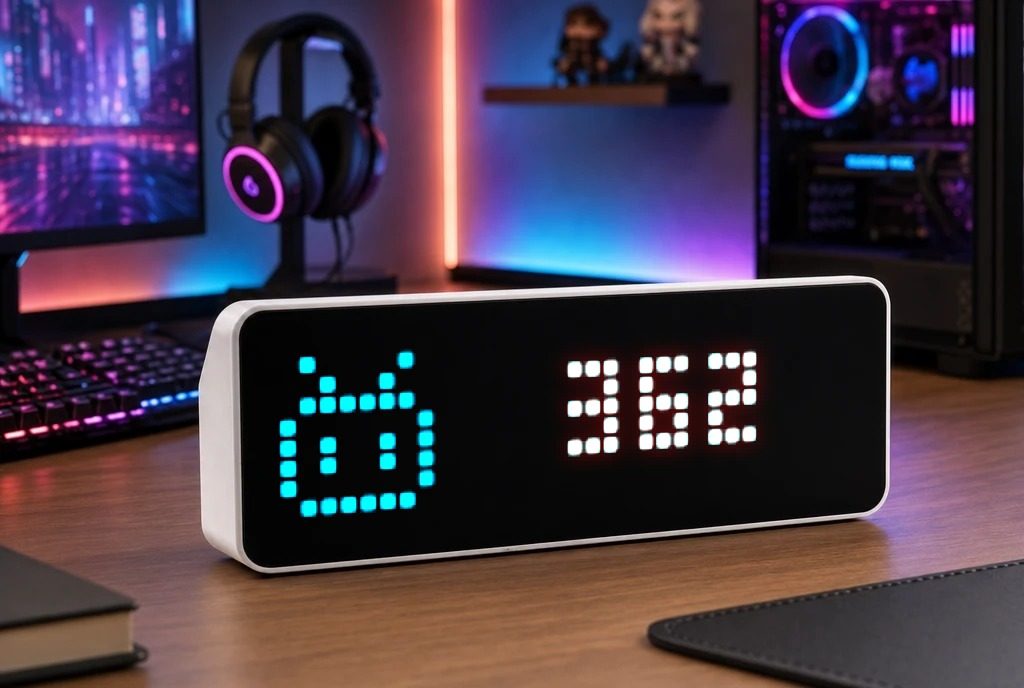
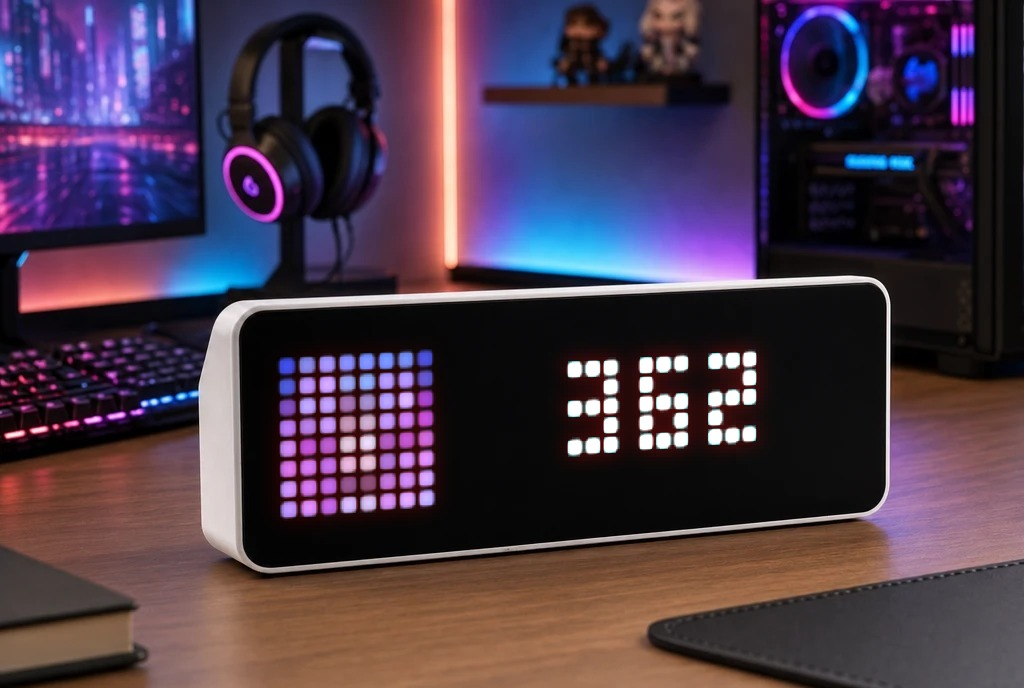
docs: update README and CLAUDE

Changed region(s): [[0.25, 0.4884, 0.4375, 0.7631]]

diff --git a/CLAUDE.md b/CLAUDE.md
@@ -394,38 +394,30 @@ Cost matters on a router, and the shell's own forks dominate it. Prefer builtins
 
 ## Image conversion (`workers/`)
 
-Item 3 above. The device cannot decode an arbitrary image and Berry has no blit, so conversion happens off-device — but **the conversion does not have to produce pixels**, which is the whole reason this is small. The firmware decodes an inline base64 JPEG/GIF in the `icon` key (see the MQTT section), so the Worker's job is "return a tiny *encoded* image", and Cloudflare Images does exactly that in one `fetch`:
+Item 3 above. The device cannot resize an arbitrary image and Berry has no blit, so the resize happens off-device in the one Worker that exists: `workers/awtrixng-image-proxy-worker/`. It is a **decode** worker — it fetches the remote image, decodes it with pure-JS libraries (`jpeg-js` for JPEG, `upng-js` for PNG/WebP), box-averages it down to 8x8 in `downscale()` (`src/index.js:131`), blends transparent pixels onto the panel's **black** background, re-encodes as a small JPEG and returns `{"data":"<base64>","size":8}`.
+
+This is the opposite of an older draft of this file, which described a "no decode" Cloudflare Images plan:
 
 ```js
 fetch(src, { cf: { image: { width: 8, height: 8, fit: "cover",
                             format: "baseline-jpeg", quality: 95 } } })
 ```
 
-The response body *is* the 8x8 JPEG; base64 it and return. No image library, no WASM, no decode. That matters because **Workers has no native image decoding at all** — `OffscreenCanvas`, `createImageBitmap`, `ImageDecoder` and WebCodecs are all absent from workerd and closed `not_planned`, so the alternative is bundling a decoder (`@cf-wasm/photon` ~1.5 MB, `@jsquash/png` ~177 KB) against the Free plan's **10 ms CPU** and **1 s startup CPU** limits. Not decoding sidesteps both: `fetch` wait does not count as CPU, and base64 of ~400 bytes is microseconds. Free plan is sufficient — 5000 unique transformations/month, where "unique" is (source, params) per calendar month, so a repeated album cover is free. Works on a `workers.dev` subdomain.
+That idea failed on a blocking unknown — whether CF Images will actually emit 8x8 — so this worker went the other way: **bundle the decoders, decode, and resize by hand**, which is also the only reason the two earlier paragraphs are now wrong. The trade-off is real and worth stating plainly: **workerd has no native image decoding** (`OffscreenCanvas`, `createImageBitmap`, `ImageDecoder`, WebCodecs all absent, closed `not_planned`), so decoding into a few hundred bytes spends CPU against the Free plan's **10 ms CPU** / **1 s startup CPU** limits. The old "no decode sidesteps both" argument was the whole appeal of the CF Images route; it is simply not what ships.
 
-**Always write `baseline-jpeg`, never `jpeg`.** The firmware bundles TJpgDec, which accepts only `SOF0` and returns `JDR_FMT3` for progressive — verified in `awtrix-ng/lib/TJpg_Decoder/src/tjpgd.c:1103`. Cloudflare's `jpeg` is documented as "interlaced progressive". There is an accidental safety net (CF only uses progressive when the output area is at least 50x50, and both 8x8 and 32x8 fall under it, so it silently emits baseline anyway) but do not rely on an implicit fallback.
+**Output stays `baseline-jpeg`.** The firmware bundles TJpgDec, which accepts only `SOF0` and returns `JDR_FMT3` for progressive — verified in `awtrix-ng/lib/TJpg_Decoder/src/tjpgd.c:1103`. `jpeg-js` encodes baseline by default, so this worker is already safe; the warning that mattered under the CF Images plan (its `format: "jpeg"` emits interlaced progressive) is a non-issue here since we control the encoder.
 
-Format choice, measured on a real cover at 8x8 against the exact resized pixels:
+Format choice never came up on the decode route: the worker always emits one JPEG (quality 90, from `encodeJpegLib(..., 90)`), so there is no `format` knob to bargain over — the GIF-vs-JPEG comparison from the CF Images draft is stale and dropped.
 
-| | RMSE | peak abs err | base64 | code needed |
-|---|---|---|---|---|
-| GIF | **0** | **0** | 380 | yes, and `format:"gif"` support is doubtful |
-| JPEG q95 | 0.0139 | 0.039 | 500 | none |
-| JPEG q75 | 0.0486 | 0.169 | 432 | none |
+**A `.ax` app *can* consume this, but only on firmware that supports `base64:` icons.** Berry's `icon()` takes a name, and `base64`/`bitmap`/blit do not exist in the Berry API — the `icon("base64:<data>", x, y)` form is the whole trick, and it is a **pushed-app-side** feature that stock AWTRIX NG only gained via [PR #52](https://github.com/Blueforcer/awtrix-ng/pull/52). On stock firmware without that PR the on-device apps here cannot show a fetched avatar at all; that is exactly what the README note at the top of this branch warns about. The two consumers in this repo are `github-followers.ax` and `bilibili-followers.ax`, which fetch the worker's base64 over HTTPS and hand it to `icon("base64:" + data, 0, 0)` — no pushed app, no LAN host, and nothing written to flash. The `@headless`-app and `POST /api/v1/files?dir=/ICONS` alternatives from the old draft (pushed apps, rewriting LittleFS per track) are dropped with it.
 
-GIF is *lossless* here for a structural reason worth remembering: 32x8 is 256 pixels and a GIF palette holds 256 entries, so **any image that fits the panel can always be palettised with zero quantisation**. It is also smaller than JPEG. But CF's docs contradict themselves on whether `format: "gif"` is accepted (the limits page lists GIF as an output format, the `format` enum does not), so JPEG q95 is the v1 — at 6% of the 8192-byte cap its error is not worth hand-writing an LZW encoder for. Revisit if it looks wrong on actual LEDs, or when animation (video) makes GIF mandatory anyway.
+The decode route removed the three unknowns the CF Images plan hung on (whether CF emits 8x8, whether `format: "gif"` is accepted, whether a `workers.dev`-only deploy needs the "enable transformations" step) — none of them is on the table once the worker decodes and resizes itself. What *is* still unverified is a real deployment: this worker is unverified against the live Cloudflare platform (see the README worker section for the `magick identify` move that proves the emitted JPEG is `8x8` + baseline on a real `workers.dev` URL).
 
-**A `.ax` app cannot consume any of this.** Berry's `icon()` takes only a filename, and `base64`, `bitmap` and `blit` do not exist in the API at all, nor does file writing. Base64 icons reach the device *only* through a pushed app, so the client has to be something that can push:
+**No contrast knob — deliberately.** An earlier `X-Contrast` header and a `boostContrast()` pass were removed ("drop avatar contrast, keep it simple"); the worker's only input is the image URL, and the only tuning is the JPEG quality 90. Do not reintroduce image-tuning headers without a reason the panel's LED response actually demands one.
 
-- **A router / cron script** (the same pattern as `network-speed.sh`) is the recommended consumer: one `curl` for the base64, pasted into the `icon` field of a payload it is already publishing. The host does no image work, which is the actual justification for the Worker.
-- **A `@headless true` Berry app** could in principle self-serve — Berry does have `http.post`/`put`/`patch`/`delete`, and the device API is unauthenticated by default (`authEnabled` ships false) — so it could fetch and then POST to `/api/v1/apps/pushed/<name>` with no LAN host involved. Untested, and it assumes the device's own HTTP server is reachable over loopback from the ESP32, which nothing confirms.
-- **`POST /api/v1/files?dir=/ICONS`** installs a real icon file that Berry can then name. Fine for pre-loading a fixed set; **wrong for album art**, which would rewrite LittleFS flash on every track.
+`node workers/awtrixng-image-proxy-worker/test.mjs` covers what does not need a deployment — URL validation, parameter parsing, base64 against Node's own encoder, and the downscale math. It imports the functions out of `src/index.js` instead of copying them, so it cannot drift. There are no dependencies to install; `wrangler deploy` (via the README's Deploy to Cloudflare button or `npm run deploy`) is the whole build.
 
-**Unverified — settle these with curl before writing more code.** (1) Whether CF Images will actually emit 8x8; no minimum output dimension is documented, but nor is one confirmed to work, and this is the only blocking unknown. (2) Whether `format: "gif"` is accepted. (3) Whether a `workers.dev`-only deployment needs the per-zone "enable transformations" step, given there is no zone to enable. If (1) fails, the fallback is CF-resize to a safe size, decode with `@jsquash/png`, re-encode — at which point bundle size and CPU need recomputing, so test first. `workers/awtrixng-image-proxy-worker/README.md` holds the recipe, including the `magick identify` check for `8x8` + interlace `None` that proves both the size and the baseline encoding at once.
-
-`node workers/awtrixng-image-proxy-worker/test.mjs` covers what does not need a deployment — URL validation, parameter parsing, base64 against Node's own encoder. It imports the functions out of `src/index.js` instead of copying them, so it cannot drift. There are no dependencies to install; `wrangler deploy` is the whole build.
-
-**This endpoint is an open image proxy unless you close it.** Transforming arbitrary remote URLs requires setting Images Sources to "any origin" (the default is same-zone), which CF's own docs flag as less secure and which checks *only the initial URL* — redirects are followed. And Workers `fetch` has **no documented private-IP blocking** (unlike `connect()`, which does block localhost and RFC1918). So validate: require https, reject IP literals and non-standard ports, `redirect: "manual"` and re-check every hop, cap by `Content-Length` before fetching, and sign the request (HMAC over URL+size) so it is not usable by strangers.
+**This endpoint is an open image proxy unless you close it.** The worker accepts an arbitrary image URL from anyone who can reach it, and Workers `fetch` has **no documented private-IP blocking** (unlike `connect()`, which does block localhost and RFC1918). Today `handle()` only requires `http(s)` and caps the source at 2 MB (`src/index.js`); the stronger posture from the README's hardening paragraphs — reject IP literals and non-standard ports, `redirect: "manual"` and re-check every hop, cap by `Content-Length` before fetching, and sign the request (HMAC over URL+size) — is not yet implemented in code. Front with Cloudflare Access if you expose it, and pass the service-token credentials through the app's `client_id`/`client_secret` settings.
 
 ## Working on external scripts
 

diff --git a/README.md b/README.md
@@ -4,6 +4,7 @@ Apps for the Ulanzi TC001 pixel clock running the [AWTRIX NG](https://github.com
 
 > [!IMPORTANT]
 > The **avatar features** need `base64:` icon support, which the stock AWTRIX NG firmware gains once [PR #52](https://github.com/Blueforcer/awtrix-ng/pull/52) is merged and flashed. Until then, either wait for that PR, or use the firmware from the [v1.1.0-base64-prefix release](https://github.com/Golevka2001/awtrix-ng/releases/tag/v1.1.0-base64-prefix). Everything else on this branch runs on any unmodified AWTRIX NG.
+> The **[awtrix-ng branch](https://github.com/Golevka2001/awtrix-scripts/tree/awtrix-ng)** is compatible with the stock firmware.
 
 ---
 
@@ -36,7 +37,7 @@ Setup is a couple of minutes, step by step at <https://github.com/Golevka2001/aw
 
 ### GitHub Followers — `github-followers.ax`
 
-![GitHub Followers](README.assets/github-followers.webp)
+![GitHub Followers](README.assets/github-followers.jpeg)
 
 [AWTRIX Flows Link](https://flows.blueforcer.de/flow/o0Phbtd83FWj)
 
